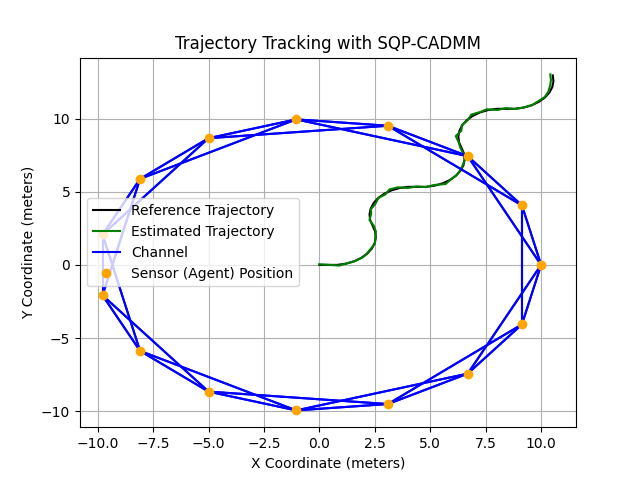
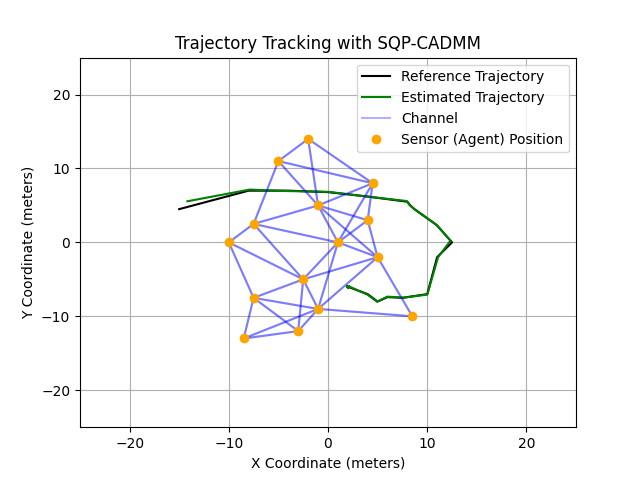
Reference trajectory making and plotting

diff --git a/SQP-CADMM/dfo/trajectory_tracking.py b/SQP-CADMM/dfo/trajectory_tracking.py
@@ -14,7 +14,7 @@ from movie import make_movie
 from scipy.spatial.distance import directed_hausdorff
 from utils import calculate_rmse
 
-from car.dynamics import GenRef, compute_measurements
+from car.dynamics import GenRef, GenRef2, compute_measurements
 
 
 def trajectory_tracking(agent_pos: np.array, ref_trajectory, sensing_radius: float = 10) -> np.array:
@@ -40,7 +40,27 @@ def trajectory_tracking(agent_pos: np.array, ref_trajectory, sensing_radius: flo
 
 def main():
     # Setting reference trajectory and parameters
-    u_bar, x_bar = GenRef(2,2,Ns=50)
+    # u_bar, x_bar = GenRef(2,2,Ns=50)
+    checkpoints = np.array([
+        [-15, 4.5],
+        [-8, 7],
+        [-4, 7],
+        [0, 6.8],
+        [4, 6.2],
+        [8, 5.5],
+        [8.3, 5.0],
+        [8.7, 4.5],
+        [11, 2.3],
+        [12.5, 0.0],
+        [11, -2.0],
+        [10, -7],
+        [7.5, -7.5],
+        [6, -7.4],
+        [5, -8],
+        [4, -7],
+        [2, -6]
+    ])
+    u_bar, x_bar = GenRef2(checkpoints,Ns=250)
     R=10 # Sensing radius
     N=15 # Number of agents
     T = len(x_bar) # Number of time steps
@@ -50,9 +70,9 @@ def main():
     agent_index = np.arange(0,N,1)
     agent_pos = np.hstack((20/2*np.cos(2*np.pi/N *agent_index).reshape(-1,1), 20/2*np.sin(2*np.pi/N *agent_index).reshape(-1,1)))
     # estimated_trajectory = np.zeros((x_bar.shape[0] -1, x_bar.shape[1]))
-    agent_positions = [agent_pos, RANDOM_AGENT_POS_1, RANDOM_AGENT_POS_2, RANDOM_AGENT_POS_3, RANDOM_AGENT_POS_4, RANDOM_AGENT_POS_5, RANDOM_AGENT_POS_6]
+    agent_positions = [PAPER_AGENT_POS, agent_pos, RANDOM_AGENT_POS_1, RANDOM_AGENT_POS_2, RANDOM_AGENT_POS_3, RANDOM_AGENT_POS_4, RANDOM_AGENT_POS_5, RANDOM_AGENT_POS_6]
 
-    for sim_run in range(6):
+    for sim_run in range(len(agent_positions)):
         curr_agent_pos = agent_positions[sim_run]
         estimated_trajectory = np.array(trajectory_tracking(curr_agent_pos, x_bar, R))
 
@@ -81,9 +101,9 @@ def main():
                 if adj_matrix[i,j] == 1:
                     if first_line:
                         first_line = False
-                        plt.plot([curr_agent_pos[i,0],curr_agent_pos[j,0]],[curr_agent_pos[i,1],curr_agent_pos[j,1]], color = 'blue', label = "Channel")
+                        plt.plot([curr_agent_pos[i,0],curr_agent_pos[j,0]],[curr_agent_pos[i,1],curr_agent_pos[j,1]], color = 'blue', label = "Channel", alpha = 0.25)
                     else:
-                        plt.plot([curr_agent_pos[i,0],curr_agent_pos[j,0]],[curr_agent_pos[i,1],curr_agent_pos[j,1]], color = 'blue')
+                        plt.plot([curr_agent_pos[i,0],curr_agent_pos[j,0]],[curr_agent_pos[i,1],curr_agent_pos[j,1]], color = 'blue', alpha = 0.25)
         plt.plot(curr_agent_pos[:,0], curr_agent_pos[:,1], 'o', color = 'orange', label='Sensor (Agent) Position')
 
         # Making the plot look nice
@@ -91,6 +111,8 @@ def main():
         plt.xlabel('X Coordinate (meters)')
         plt.ylabel('Y Coordinate (meters)')
         plt.title('Trajectory Tracking with SQP-CADMM')
+        plt.xlim(-25, 25)
+        plt.ylim(-25, 25)
         plt.grid(True)
         plt.savefig(f'data/trajectory_tracking_{sim_run + 1}.png')
         plt.show()

diff --git a/car/dynamics.py b/car/dynamics.py
@@ -1,4 +1,5 @@
 import numpy as np
+
 L = 2.0  # Distance between front and rear axles (wheelbase)
 
 def dubins_car_dynamics(x, u, dt=0.05):
@@ -69,4 +70,28 @@ def GenRef(alpha, beta, Ns = 500):
             x_bar[k + 1, :] = np.squeeze(dubins_car_dynamics(x_bar[k, :],   u_act))
             
         return u_bar, x_bar
+
+def GenRef2(checkpoints, Ns=500):
+    """Given a set of cheeckpoints, generate a trajectory with Ns points
+
+    Args:
+        checkpoints (np.array): Array of checkpoints, each row is a checkpoint (x,y)
+        Ns (int, optional): number of steps/points in trajectory. Defaults to 500.
+    
+    Returns:
+        np.array: Generated trajectory with Ns points
+    """
+    v_lim = [-10,10]
+    delta_lim = [-0.8,0.8]
+    Dim_state = 3
+    Dim_ctrl = 2
+    
+    x_bar = np.zeros((Ns + 1, Dim_state))
+    u_bar = np.zeros((Ns, Dim_ctrl))
+
+    # Interpolate between checkpoints and make sure x_bar has Ns + 1 points
+    x_bar[:, 0] = np.interp(np.linspace(0, Ns, Ns + 1), np.arange(checkpoints.shape[0]), checkpoints[:, 0])
+    x_bar[:, 1] = np.interp(np.linspace(0, Ns, Ns + 1), np.arange(checkpoints.shape[0]), checkpoints[:, 1])
+
+    return u_bar, x_bar
 

diff --git a/SQP-CADMM/dfo/constants.py b/SQP-CADMM/dfo/constants.py
@@ -95,3 +95,19 @@ RANDOM_AGENT_POS_6 = np.array([[-16.73046025, 8.44994888],
                                [-13.59611843, -5.78088047],
                                [-13.38019755, 8.82083454],
                                [-11.490777, -2.11906156]])
+
+PAPER_AGENT_POS = np.array([[-2, 14],
+                            [-5, 11],
+                            [4.5, 8],
+                            [-1, 5],
+                            [-7.5, 2.5],
+                            [4, 3],
+                            [-10, 0],
+                            [1, 0],
+                            [5, -2],
+                            [-2.5, -5],
+                            [-7.5, -7.5],
+                            [-1, -9],
+                            [-8.5, -13],
+                            [-3, -12],
+                            [8.5, -10]])

diff --git a/SQP-CADMM/movie.py b/SQP-CADMM/movie.py
@@ -61,7 +61,7 @@ def make_movie(trajectories, estimated_trajectories, agent_pos):
             estimated_points[k].set_data([estimated_trajectories[k, frame, 0]], [estimated_trajectories[k, frame, 1]])
         return lines + points + circles+estimated_lines+estimated_points
 
-    ani = FuncAnimation(fig, update, frames=num_steps, blit=True, repeat=False)
+    ani = FuncAnimation(fig, update, frames=num_steps, blit=True, repeat=True)
     
     # To save the animation, you can use the following line:
     # ani.save('trajectories.mp4', writer='ffmpeg')
